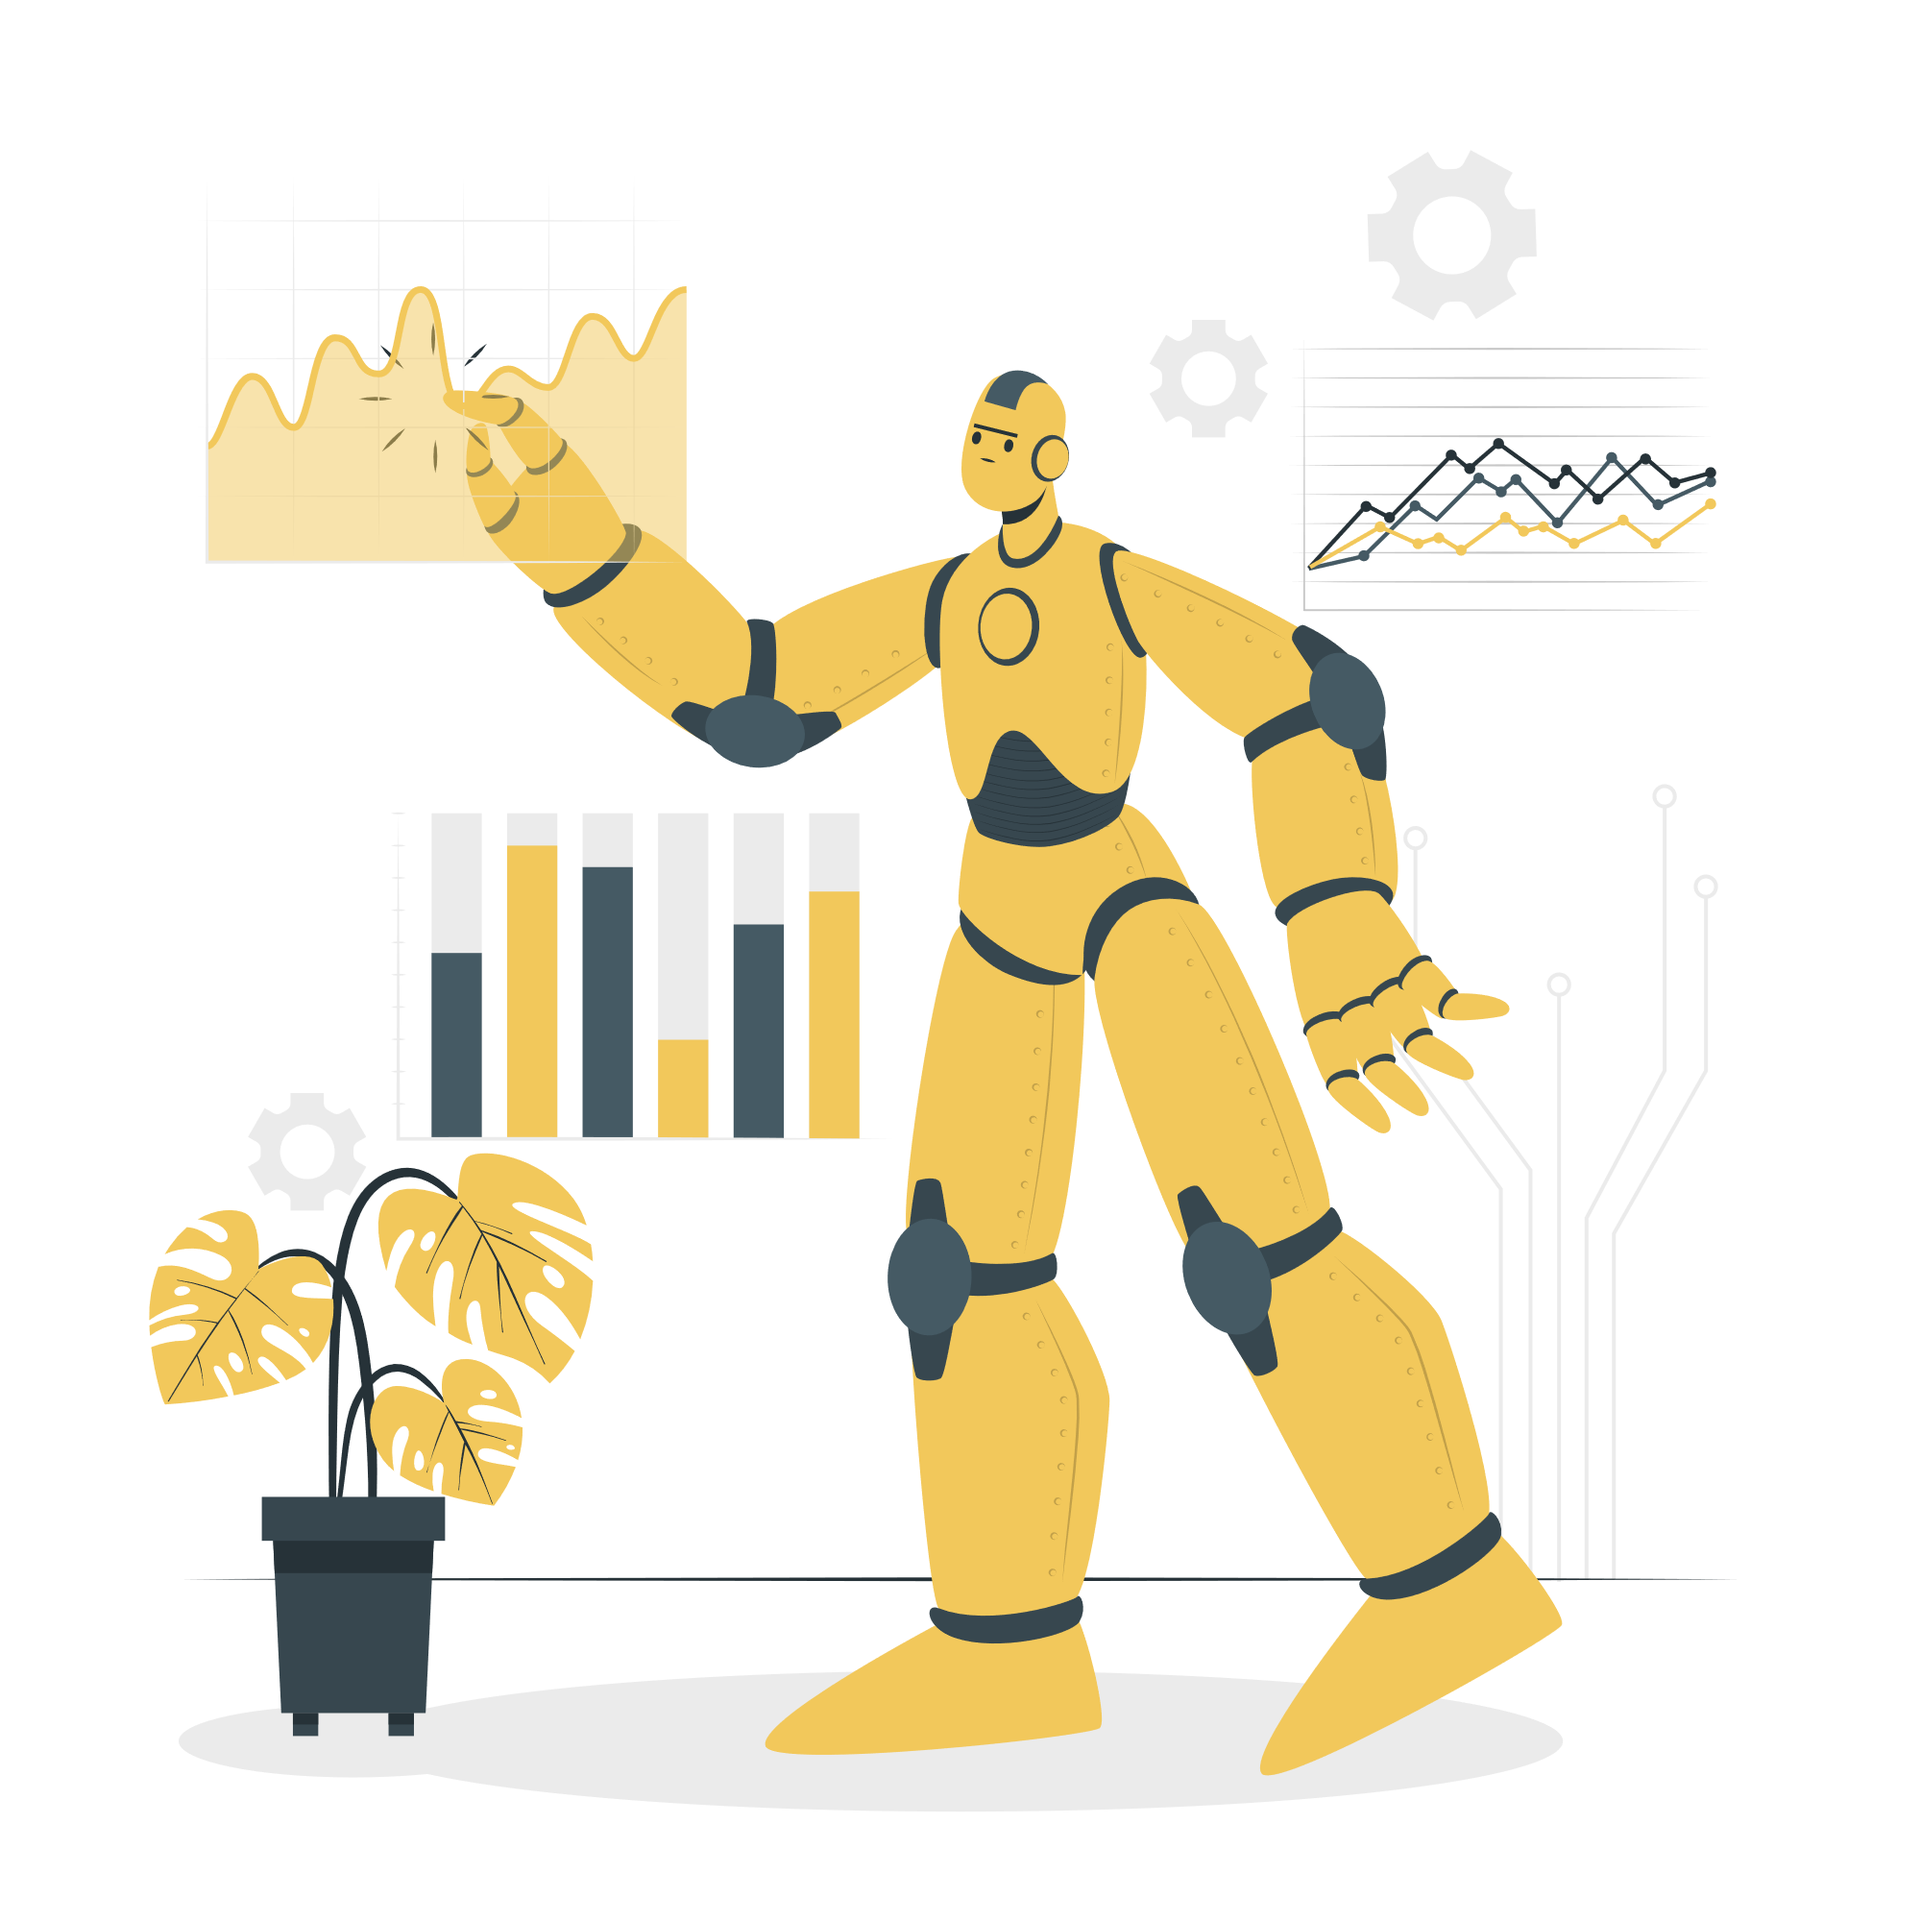
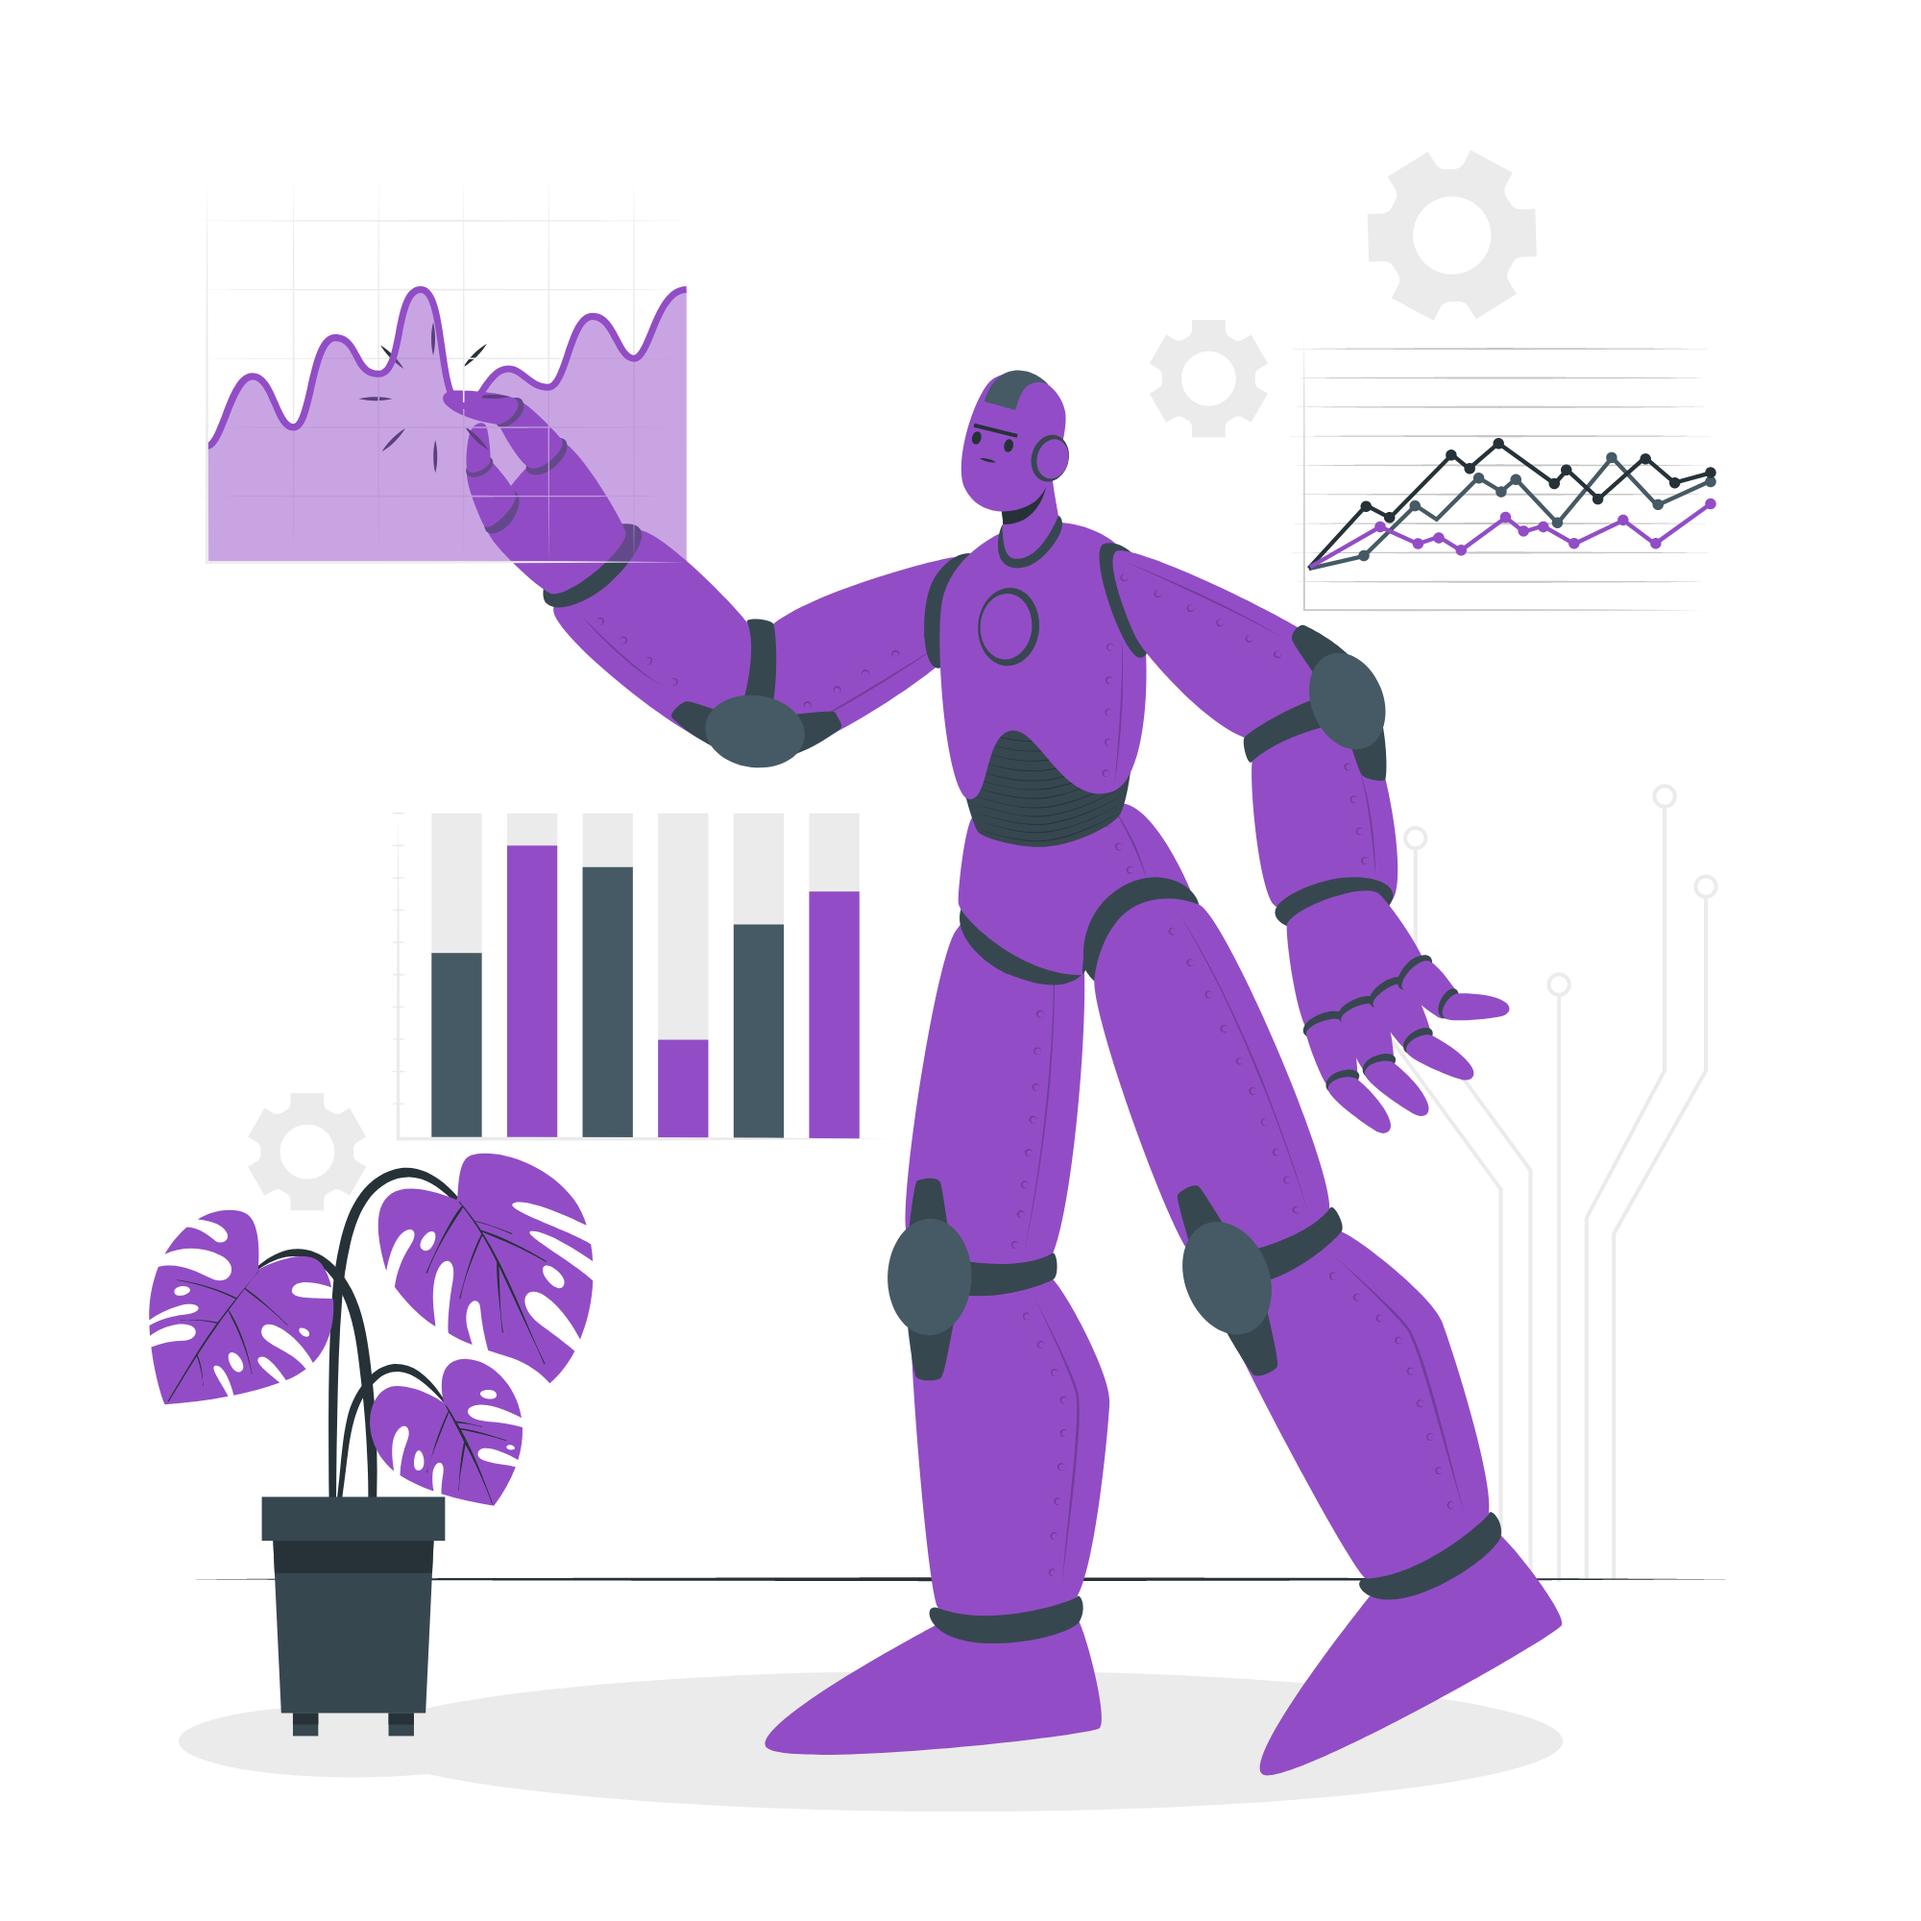
Changed theme, added company images and modified the frontpage

diff --git a/src/views/Frontpage.js b/src/views/Frontpage.js
@@ -4,8 +4,12 @@ import { makeStyles } from '@material-ui/core/styles';
 import Typography from '@material-ui/core/Typography';
 import Button from '@material-ui/core/Button';
 
-import headerimage from "../img/headerimg.png";
+import headerimage from "../img/headerimg1.png";
 import client1 from '../img/clients/client1.png';
+import eaglelogo from '../img/clients/eaglelogo.png';
+import medinel from '../img/clients/medinel.png';
+import eeagleex from '../img/clients/eeagleex.png';
+
 
 import solutionimg1 from "../img/solution1.png";
 import solutionimg2 from "../img/solution2.png";
@@ -60,7 +64,7 @@ const useStyles = makeStyles((theme) => ({
             paddingLeft: theme.spacing(10),
             paddingRight: theme.spacing(10),
             paddingTop: theme.spacing(2),
-            backgroundColor: "transparent"
+            backgroundColor: "transparent",
         }
     },
     herodiv : {
@@ -93,7 +97,7 @@ const Frontpage = props => {
                 </Typography>
                 <div className={classes.herodiv}>
                     <Typography variant="subtitle1" gutterBottom>
-                    Consulting tends to be a pricey option available to corporates with deep coffers. At Warisan we aim to deliver similar strategic value at affordable rates to Malaysia's SMEs in an effort to catalyse the drive into becoming a high-income nation. 
+                        Warisan Strategic Advisory is a Malaysian IT & Management Consultancy. We specialise in providing affordable, innovative digital business solutions for SMEs. Our bespoke range of technology, marketing and consulting solutions help SMEs transform and grow their business. If you are an SME please do get in touch for a no obligation discussion.
                     </Typography>
                     <div style={{paddingTop:"1em"}}>
                     <Button variant="contained" color="primary" onClick={()=> history.push("/contact")}>
@@ -117,13 +121,13 @@ const Frontpage = props => {
                     </div>
                     </Grid>
                     <Grid item xs={12} sm={4} md={3}>
-                        <Client link="adhadhaskdjads" description="Lorem ipsum dolor sit amet, consectetur adipiscing elit. Nulla eget felis dui. Suspendisse aliquet nibh " logo={client1} companyname="Google"/>
+                        <Client link="adhadhaskdjads" description="Lorem ipsum dolor sit amet, consectetur adipiscing elit. Nulla eget felis dui. Suspendisse aliquet nibh " logo={eaglelogo} companyname="Eagle Eyes Water"/>
                     </Grid>
                     <Grid item xs={12} sm={4} md={3}>
-                        <Client link="adhadhaskdjads" description="Lorem ipsum dolor sit amet, consectetur adipiscing elit. Nulla eget felis dui. Suspendisse aliquet nibh " logo={client1} companyname="Google"/>
+                        <Client link="adhadhaskdjads" description="Lorem ipsum dolor sit amet, consectetur adipiscing elit. Nulla eget felis dui. Suspendisse aliquet nibh " logo={medinel} companyname="Medinel"/>
                     </Grid>
                     <Grid item xs={12} sm={4} md={3}>
-                        <Client link="adhadhaskdjads" description="Lorem ipsum dolor sit amet, consectetur adipiscing elit. Nulla eget felis dui. Suspendisse aliquet nibh " logo={client1} companyname="Google"/>
+                        <Client link="adhadhaskdjads" description="Lorem ipsum dolor sit amet, consectetur adipiscing elit. Nulla eget felis dui. Suspendisse aliquet nibh " logo={eeagleex} companyname="EeagleEx"/>
                     </Grid>
                     <Grid item xs={12} sm={4} md={3}>
                         <Client link="adhadhaskdjads" description="Lorem ipsum dolor sit amet, consectetur adipiscing elit. Nulla eget felis dui. Suspendisse aliquet nibh " logo={client1} companyname="Google"/>
@@ -136,22 +140,28 @@ const Frontpage = props => {
     function Solutions() {
         return (
             <React.Fragment>
-                <Grid container spacing={5} direction="row" justify="flex-start" alignItems="flex-start" className={classes.servicesgrid}>
-                    <Grid item xs={12} sm={6} md={4}>
-                        <Solution solutionText="S.H.I.F.T Consultancy"
-                            solutionDescription="Strategic, Holistic, Informative, Functional and Transformative. In today's dynamic economic landscape, it is imperative that businesses constantly evolve and transform to stay ahead of the curve. SHIFT is our premier end-to-end offering tailored for our SME clients to futureproof their businesses."
+                <Grid container spacing={5} direction="row" justify="stretch" alignItems="stretch" className={classes.servicesgrid}>
+                    <Grid item xs={12} sm={6} md={3}>
+                        <Solution solutionText="Data Analytics & Business Insights"
+                            solutionDescription="We help you clean, filter, and visualise data gathered from business operations. Our team will provide a comprehensive report and advise on business insights, trends and patterns enabling you to make better decisions."
                             solutionImg={solutionimg1}
                             taglines={["Big Data Analytics", "Inventory Management", "Agile Development", "Data Migration"]}/>
                     </Grid>
-                    <Grid item xs={12} sm={6} md={4}>
+                    <Grid item xs={12} sm={6} md={3}>
                         <Solution solutionText="Digital Media Management"
-                            solutionDescription="At Warisan we help our digital creator clients achieve their ambitions by providing a one-stop solution package that includes strategy, implementation, analytics and management." 
+                            solutionDescription="Our Digital Nurturing Programme builds and manages your e-commerce & digital presence and marketing platforms. This includes a custom e-commerce enabled website, Shopee, Lazada, Facebook, Instagram, Twitter, TikTok, YouTube, Spotify and more." 
                             solutionImg={solutionimg2}
-                            taglines={["Website Development", "SEO Management", "Digital Marketting", "Media Production", "Web Security", "Custom Software Solutions", "Content Management Services"]}/>
+                            taglines={["Website Development", "SEO Management", "Digital Marketting", "Media Production", "Web Security", "Custom Software Solutions", "Content Management Services", "e-Commerce Solutions"]}/>
                     </Grid>
-                    <Grid item xs={12} sm={6} md={4}>
-                        <Solution solutionText="First Step Solutions"
-                            solutionDescription="Looking to start your own business but not sure where to turn? Need help planning or executing your next project? Let us guide you. Our FIRST Step Solutions provide budding entrepreneurs with operational, analytical and strategic help to get their start-up off the ground efficiently."
+                    <Grid item xs={12} sm={6} md={3}>
+                        <Solution solutionText="Warisan Business Suite"
+                            solutionDescription="Our flagship solution designed for fledgling companies. WBS audits and optimises all business functions. It is ideal for SMEs and Start-Ups looking for an affordable and effective all-in-one solution that handles all their strategic, management, marketing and digital needs."
+                            solutionImg={solutionimg3}
+                            taglines={["Business Consultation", "Finance Consultation", "Business Registration"]}/>
+                    </Grid>
+                    <Grid item xs={12} sm={6} md={3}>
+                        <Solution solutionText="Distribution Optimisation"
+                            solutionDescription="Sales are the lifeblood of any SME. Our Distribution Optimisation solution audits, optimises and transforms your sales function. It is ideal for retail focused SMEs in the launch-phase or looking to expand."
                             solutionImg={solutionimg3}
                             taglines={["Business Consultation", "Finance Consultation", "Business Registration"]}/>
                     </Grid>

diff --git a/src/components/HeaderAppBar.js b/src/components/HeaderAppBar.js
@@ -20,12 +20,16 @@ import ListItemText from '@material-ui/core/ListItemText';
 import { ListItemIcon } from '@material-ui/core';
 import AccountBalanceIcon from '@material-ui/icons/AccountBalance';
 
+import WarisanLogo from '../img/WSALOGO1.png';
+
 
 const useStyles = makeStyles((theme) => ({
     header: {
-        color: "#ffffe3",
+        color: "#00ADEE",
         background: "transparent",
-        boxShadow: "none"
+        boxShadow: "none",
+        width: "100%",
+        display: 'flex'
     },
     menuButton: {
         marginRight: theme.spacing(2),
@@ -45,11 +49,21 @@ const useStyles = makeStyles((theme) => ({
     },
     appbaricon: {
         fontSize: "40px",
-        color: "#ffffe3"
+        color: "#00ADEE"
     },
     appButton: {
         [theme.breakpoints.down('xs')]: { display: 'none', }
     },
+    logo: {
+        [theme.breakpoints.down('xs')]: {
+            width: "10em"
+        },
+        [theme.breakpoints.up('sm')]: { 
+            paddingLeft: theme.spacing(4),
+            width: "17%"
+        }
+
+    }
 }))
 
 const HeaderAppBar = props => {
@@ -96,16 +110,16 @@ const HeaderAppBar = props => {
                 <IconButton edge="start" className={classes.menuButton} color="inherit" aria-label="menu" onClick={() => setDraweropen(true)}>
                     <MenuIcon />
                 </IconButton>
-                <Typography variant="h6" className={classes.title}>
-                    <Link href="/" color="inherit" style={{ textDecoration: 'none' }}>
-                        WARISAN STRATEGIC ADVISORY
-                    </Link>
-                </Typography>
+                <Link href="/">
+                    <img src={WarisanLogo} className={classes.logo} />
+                </Link>
+                <div style={{ display:'flex'}}>
                     <Button color="inherit" className={classes.appButton} onClick={()=> history.push("/")}>HOME</Button>
                     <Button color="inherit" className={classes.appButton} >SOLUTIONS</Button>
                     <Button color="inherit" className={classes.appButton} onClick={() => history.push("/testimonials")}>TESTIMONIALS</Button>
                     <Button color="inherit" className={classes.appButton} >BLOG</Button>
-                    <Button color="inherit" className={classes.appButton} onClick={()=> history.push("/contact")}>CONTACT US</Button>
+                    <Button color="inherit" className={classes.appButton} onClick={()=> history.push("/contact")}>CONTACT</Button>
+                </div>
                 </Toolbar>
         </AppBar>
     )

diff --git a/src/components/Solution.js b/src/components/Solution.js
@@ -13,7 +13,7 @@ const useStyles = makeStyles((theme) => ({
         fontSize: "100px"
     },
     checkmark: {
-        color: theme.palette.primary.main,
+        color: theme.palette.secondary.main,
         transform: "translate(0,25%)"
     }
 }))
@@ -23,7 +23,7 @@ function Solution({solutionText, solutionDescription, solutionImg, taglines}) {
     const classes = useStyles();
     return (
         <React.Fragment>
-            <Box border={6} borderColor="primary.main" borderRadius={16}>
+            <Box border={6} borderColor="tertiary.main" borderRadius={16}>
                 <Grid container spacing={1} direction="row" justify="flex-start" alignItems="flex-start" className={classes.itemgrid}>
                     <Grid item xs={12}>
                         <div style={{textAlign: "center"}}>

diff --git a/src/theme.js b/src/theme.js
@@ -3,10 +3,16 @@ import { createMuiTheme } from '@material-ui/core/styles';
 const theme = createMuiTheme({
     palette: {
         primary: {
-            main: '#f2c85b'
+            main: '#652D90'
         },
         background: {
-            default: "#292533"
+            default: "#ebebeb"
+        },
+        secondary: {
+            main: "#00A551"
+        },
+        tertiary: {
+            main: "#00ADEE"
         }
     },
     typography: {
@@ -16,7 +22,7 @@ const theme = createMuiTheme({
         "fontWeightRegular": 400,
         "fontWeightMedium": 500,
         allVariants : {
-            color: "#ffffe3" 
+            color: "#652D90" 
         },
     },
 }
